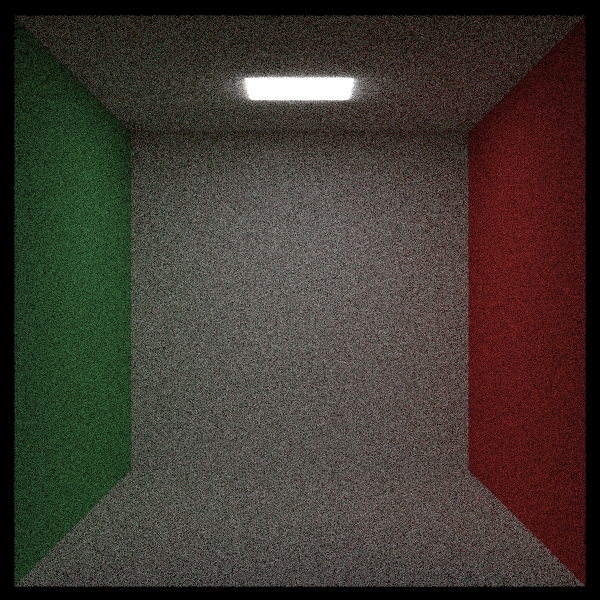
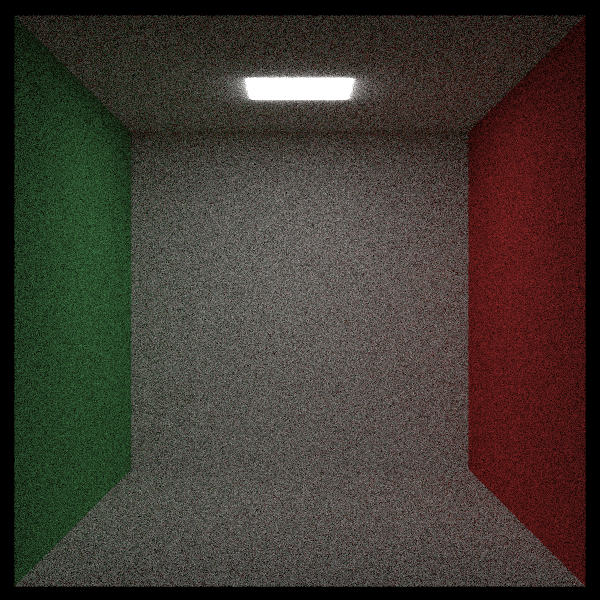
Update to taichi v1.40

diff --git a/raytracingOneWeekend/main.py b/raytracingOneWeekend/main.py
@@ -168,7 +168,7 @@ def cornell_BoxScene():
     global cam 
     global world
 
-    samples_per_pixel = 500;
+    samples_per_pixel = 50;
     max_depth = 50;
 
     #add objects
@@ -177,6 +177,7 @@ def cornell_BoxScene():
     mat_wall_3 = material._Material(color = vec3f(0.8, 0.8, 0.8), matindex = 0, roughness=0.0, ior = 0.0);
     mat_wall_4 = material._Material(color = vec3f(0.6, 0.0, 0.0), matindex = 0, roughness=0.0, ior = 0.0);
     mat_wall_5 = material._Material(color = vec3f(0.0, 0.6, 0.0), matindex = 0, roughness=0.0, ior = 0.0);
+    mat_light = material._Material(color = vec3f(15, 15, 15), matindex = 3, roughness=0.0, ior = 0.0);
 
     #add ground, ceiling, back, right left
     world.add(Sphere(vec3f(0, -100.5, -1), 100.0, mat_wall_1));
@@ -191,10 +192,11 @@ def cornell_BoxScene():
     mat_ball_3 = material._Material(color = vec3f(1.0, 1.0, 1.0), matindex = 2, roughness=0.0, ior = 0.0);   #dielectric
     mat_ball_4 = material._Material(color = vec3f(0.8, 0.6, 0.2), matindex = 1, roughness=0.0, ior = 0.0);  #metal
 
-    world.add(Sphere(vec3f(0, -0.2, -1.5), 0.3, mat_ball_1))
-    world.add(Sphere(vec3f(-0.8, 0.2, -1), 0.7, mat_ball_2))
-    world.add(Sphere(vec3f(0.7, 0, -0.5), 0.5, mat_ball_3))
-    world.add(Sphere(vec3f(0.6, -0.3, -2.0), 0.2, mat_ball_4))
+    #world.add(Sphere(vec3f(0, -0.2, -1.5), 0.3, mat_ball_1))
+    #world.add(Sphere(vec3f(-0.8, 0.2, -1), 0.7, mat_ball_2))
+    #world.add(Sphere(vec3f(0.7, 0, -0.5), 0.5, mat_ball_3))
+    #world.add(Sphere(vec3f(0.6, -0.3, -2.0), 0.2, mat_ball_4))
+    
     #camera
     look_from = vec3f(0.0, 1.0, -5.0);
     look_at = vec3f(0.0, 1.0, -1.0);
@@ -240,8 +242,8 @@ def main():
     #print("--- Time Elapsed: --- %s seconds" %(time.time() - start_time));
 
     # -- Render with Seriliazed Samples
-    random_scene();
-    #cornell_BoxScene();
+    #random_scene();
+    cornell_BoxScene();
     #gui = ti.GUI("Ray Tracing in One Weekend", res=(image_width, image_height));
     start_time = time.time();
     for i in range(samples_per_pixel):

diff --git a/Misc/DynamicSNode_MSquare.py b/Misc/DynamicSNode_MSquare.py
@@ -1,0 +1,48 @@
+#only support cpu and cuda backend for now
+import taichi as ti 
+
+ti.init(arch=ti.cuda);
+
+#Basic Test
+S = ti.root.dense(ti.i,10).dynamic(ti.j, 1024, chunk_size=32);  #dynamic SNode as a tree-root structure
+x = ti.field(int);   #define a variable, could add as a dense array holding lists
+S.place(x);    #make it a dynamic list
+
+@ti.kernel
+def add_data():
+    #ti.loop_config(serialize=True)
+    for i in range(10):
+        for j in range(i):
+            x[i].append(j)
+            print(x[i].length())
+
+@ti.kernel
+def clear_data():
+    for i in range(10):
+        x[i].deactivate()
+        print(x[i].length())  #will print 0
+
+
+#Marching Squares
+#screen rendering init
+Width, Height = 800, 600;
+resolution = (Width, Height);
+grid_size = 8;
+iTime = ti.field(float, shape=());
+
+#create edge tables for 16 cases
+edge_table = ti.Matrix.field(2, 2, int, 16);
+
+vec2 = ti.math.vec2;
+Edge = ti.types.struct(p0=vec2, p1=vec2);   #declare struct type
+edges = Edge.field();   #declare variable
+D_Node = ti.root.dynamic(ti.i, 1024, chunk_size=32);
+D_Node.place(edges);
+
+#assume unit length - 1, and square's range from [-10, 10]
+
+
+
+if __name__ == "__main__":
+    add_data();
+    clear_data();

diff --git a/raytracingOneWeekend/material.py b/raytracingOneWeekend/material.py
@@ -23,7 +23,7 @@ def reflectance(cosine, idx):
 
 # I am defining a unified class struct for material 
 # the scattering are different from material index, 0 -diffuse, 1 - metal, 2 - dielectric
-@ti.struct_class
+@ti.dataclass
 class _Material():
     color: vec3f;
     matindex: ti.i32;
@@ -43,7 +43,9 @@ class _Material():
             
         if self.matindex == 2: #dielectric
             is_scattered, out_dir, attenuation_color = self.scatter_dielectric(dir_in, rec);
-            
+        
+        if self.matindex == 3:  #emission
+            is_scattered = False;   
         return is_scattered, out_dir, attenuation_color;
     
     @ti.func 

diff --git a/raytracingNextWeek/ray.py b/raytracingNextWeek/ray.py
@@ -3,8 +3,8 @@ import vector
 #use class -> data-oriented
 
 
-#utilize struct_class to construc the taichi type in the taichi function
-@ti.struct_class
+#utilize ti.dataclass to construc the taichi type in the taichi function
+@ti.dataclass
 class Ray:
     origin: vector.vec3f;
     direction: vector.vec3f;

diff --git a/raytracingOneWeekend/ray.py b/raytracingOneWeekend/ray.py
@@ -3,8 +3,8 @@ import vector
 #use class -> data-oriented
 
 
-#utilize struct_class to construc the taichi type in the taichi function
-@ti.struct_class
+#utilize dataclass to construc the taichi type in the taichi function
+@ti.dataclass
 class Ray:
     origin: vector.vec3f;
     direction: vector.vec3f;

diff --git a/raytracingNextWeek/material.py b/raytracingNextWeek/material.py
@@ -23,7 +23,7 @@ def reflectance(cosine, idx):
 
 # I am defining a unified class struct for material 
 # the scattering are different from material index, 0 -diffuse, 1 - metal, 2 - dielectric, 3 - diffuse_light
-@ti.struct_class
+@ti.dataclass
 class _Material():
     color: vec3f;
     matindex: ti.i32;

diff --git a/Misc/DynamicSNode_OIT.py b/Misc/DynamicSNode_OIT.py
@@ -1,0 +1,1 @@
+#only support cpu and cuda backend for now
